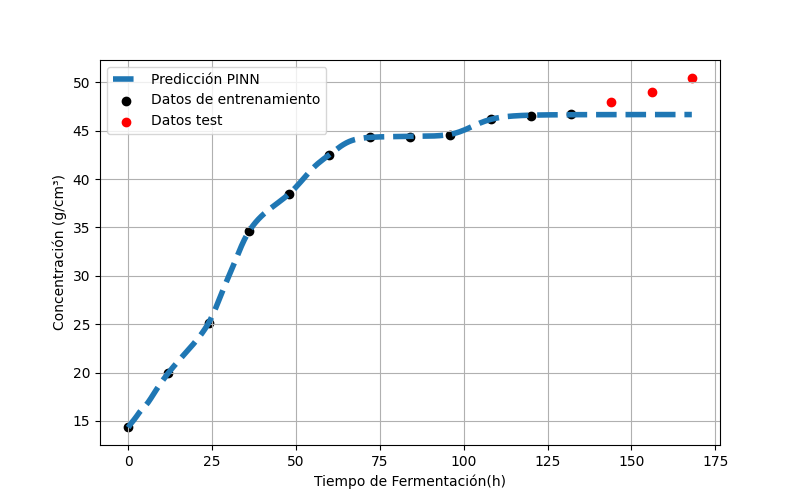
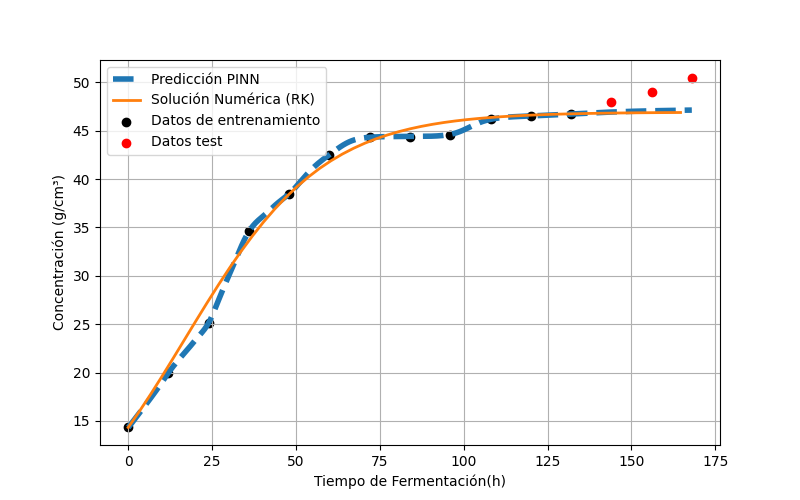
Cambio de título y gráficas sobrepuestas

diff --git a/book/docs/problema_directo.md b/book/docs/problema_directo.md
@@ -1,4 +1,4 @@
-# Ajuste de modelo de Gompertz
+# Ajuste de modelo de con datos de tratamientos de ultrasonido
 
 En este trabajo se logró **corroborar la validez de los parámetros del modelo de Gompertz** para describir el crecimiento de los gránulos de kéfir de agua. Para ello, se empleó el método numérico de **Runge–Kutta de cuarto orden (RK4)**, el cual permitió resolver la ecuación diferencial asociada al modelo de manera precisa y estable.
 